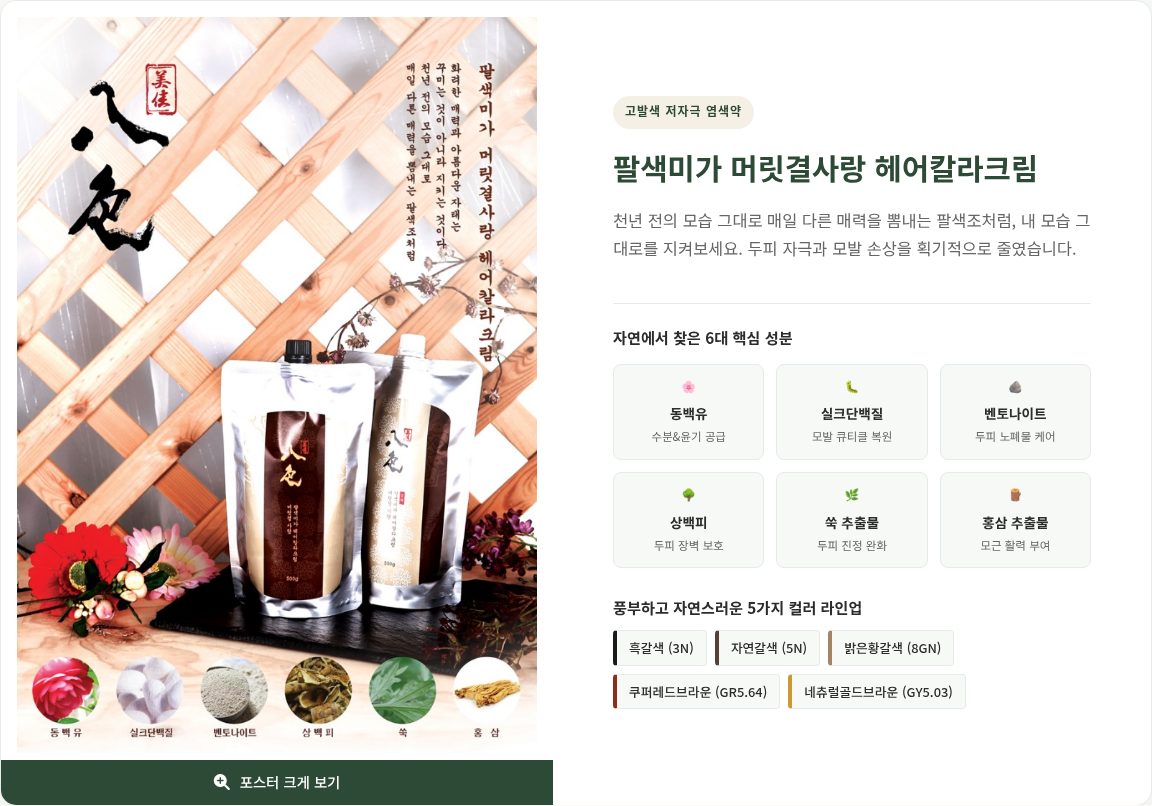
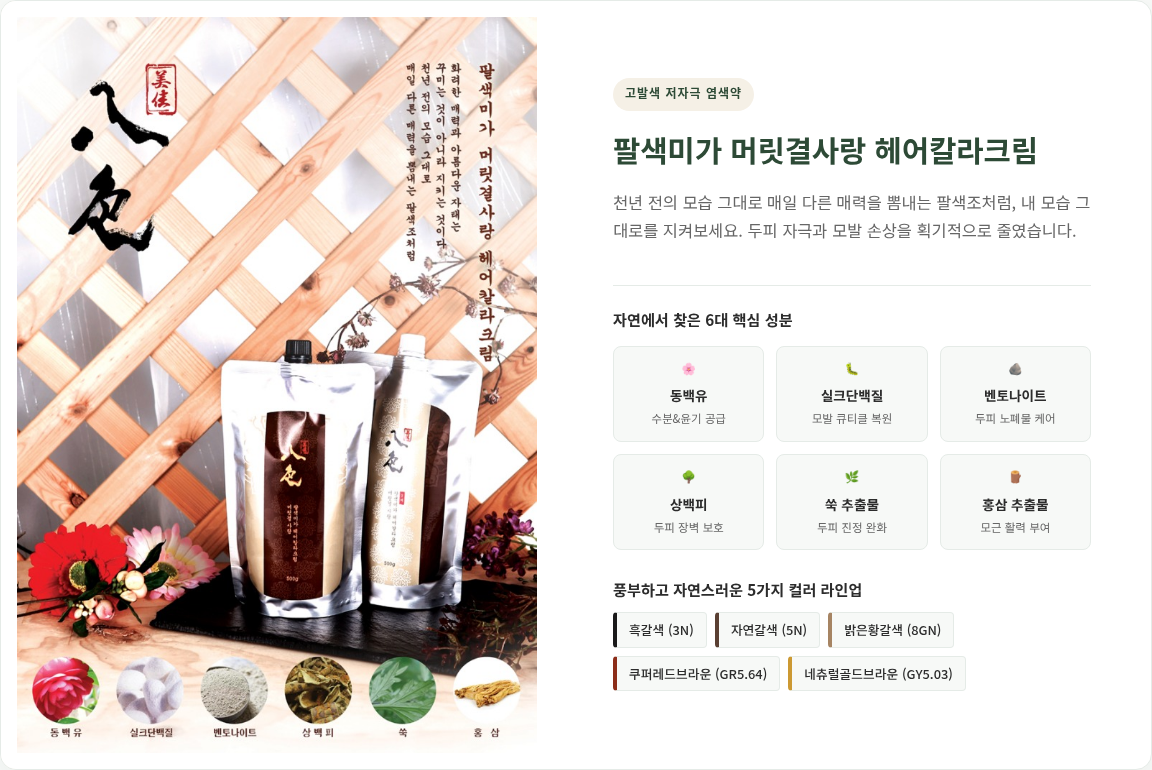
fix: remove poster zoom buttons and lightbox

diff --git a/index.html b/index.html
@@ -31,7 +31,7 @@
     <link rel="stylesheet" href="https://cdnjs.cloudflare.com/ajax/libs/font-awesome/6.4.0/css/all.min.css">
     
     <!-- Stylesheet -->
-    <link rel="stylesheet" href="styles.css?v=3.0">
+    <link rel="stylesheet" href="styles.css?v=3.1">
 </head>
 <body>
 
@@ -186,11 +186,10 @@
                     <!-- Product 1: PalSaekMiGa -->
                     <div class="product-item scroll-reveal">
                         <div class="product-display-box">
-                            <button class="poster-preview" type="button" data-motion-scene data-lightbox="assets/dye_poster.jpg" aria-label="팔색미가 헤어칼라크림 포스터 크게 보기" aria-haspopup="dialog">
+                            <div class="poster-preview" data-motion-scene>
                                 <img src="assets/dye_poster.jpg" alt="팔색미가 머릿결사랑 헤어칼라크림 포스터" width="724" height="1024" loading="lazy" decoding="async">
                                 <span class="product-reflection" data-motion aria-hidden="true"></span>
-                                <span class="zoom-overlay"><i class="fa-solid fa-magnifying-glass-plus" aria-hidden="true"></i> 포스터 크게 보기</span>
-                            </button>
+                            </div>
                         </div>
                         
                         <div class="product-info-box">
@@ -252,11 +251,10 @@
                     <!-- Product 2: Care Products -->
                     <div class="product-item reverse scroll-reveal">
                         <div class="product-display-box">
-                            <button class="poster-preview" type="button" data-motion-scene data-lightbox="assets/essence_poster.jpg" aria-label="프로페셔널 에센스 포스터 크게 보기" aria-haspopup="dialog">
+                            <div class="poster-preview" data-motion-scene>
                                 <img src="assets/essence_poster.jpg" alt="프로페셔널 에센스 설명 포스터" width="723" height="1024" loading="lazy" decoding="async">
                                 <span class="product-reflection" data-motion aria-hidden="true"></span>
-                                <span class="zoom-overlay"><i class="fa-solid fa-magnifying-glass-plus" aria-hidden="true"></i> 포스터 크게 보기</span>
-                            </button>
+                            </div>
                         </div>
                         
                         <div class="product-info-box">
@@ -625,12 +623,6 @@
         </div>
     </footer>
 
-    <!-- Lightbox Modal -->
-    <div class="lightbox-modal" id="lightbox" role="dialog" aria-modal="true" aria-label="제품 포스터 확대 보기">
-        <button class="lightbox-close" type="button" aria-label="확대 이미지 닫기">&times;</button>
-        <img class="lightbox-content" id="lightbox-img" alt="확대 이미지">
-    </div>
-
     <!-- Success Modal -->
     <div class="modal-overlay" id="success-modal">
         <div class="modal-content">
@@ -646,6 +638,6 @@
         <a href="tel:0323276788" aria-label="대표 번호로 전화 걸기"><i class="fa-solid fa-phone"></i></a>
     </div>
 
-    <script src="app.js?v=3.0"></script>
+    <script src="app.js?v=3.1"></script>
 </body>
 </html>

diff --git a/styles.css b/styles.css
@@ -727,11 +727,9 @@ h1, h2, h3, h4, h5, h6 {
     height: 100%;
     display: block;
     border: 0;
-    padding: 16px 16px 52px;
+    padding: 16px;
     overflow: hidden;
-    cursor: pointer;
     background-color: #ffffff;
-    transition: var(--transition-smooth);
 }
 
 .poster-preview img {
@@ -742,9 +740,9 @@ h1, h2, h3, h4, h5, h6 {
 
 .product-reflection {
     position: absolute;
-    top: 0;
-    bottom: 44px;
-    left: 0;
+    top: 16px;
+    bottom: 16px;
+    left: 16px;
     width: 55%;
     pointer-events: none;
     background: linear-gradient(90deg, transparent, rgba(255, 255, 255, 0.38) 48%, rgba(255, 243, 212, 0.12) 64%, transparent);
@@ -755,39 +753,6 @@ h1, h2, h3, h4, h5, h6 {
 @keyframes product-light {
     0%, 12% { transform: translateX(-160%) skewX(-18deg); }
     55%, 100% { transform: translateX(290%) skewX(-18deg); }
-}
-
-.zoom-overlay {
-    position: absolute;
-    z-index: 1;
-    bottom: 0;
-    left: 0;
-    width: 100%;
-    min-height: 44px;
-    padding: 10px;
-    background-color: var(--primary-color);
-    color: #ffffff;
-    display: flex;
-    align-items: center;
-    justify-content: center;
-    gap: 10px;
-    opacity: 1;
-    font-size: 0.9rem;
-    font-weight: 500;
-    transition: var(--transition-fast);
-}
-
-.zoom-overlay i {
-    font-size: 1rem;
-}
-
-.poster-preview:focus-visible {
-    outline-offset: -5px;
-}
-
-.poster-preview:hover .zoom-overlay,
-.poster-preview:focus-visible .zoom-overlay {
-    background-color: var(--primary-dark);
 }
 
 /* Product Info Box */
@@ -1576,64 +1541,6 @@ footer {
     background-color: var(--primary-dark);
 }
 
-/* Lightbox Modal */
-.lightbox-modal {
-    position: fixed;
-    top: 0;
-    left: 0;
-    width: 100%;
-    height: 100%;
-    background-color: rgba(0, 0, 0, 0.9);
-    z-index: 3000;
-    display: none;
-    align-items: center;
-    justify-content: center;
-    opacity: 0;
-    transition: opacity 0.3s ease;
-    padding: 20px;
-}
-
-.lightbox-modal.open {
-    display: flex;
-    opacity: 1;
-}
-
-.lightbox-content {
-    max-width: 90%;
-    max-height: 85vh;
-    border-radius: 6px;
-    box-shadow: 0 10px 30px rgba(0, 0, 0, 0.5);
-    transform: scale(0.95);
-    transition: transform 0.3s cubic-bezier(0.16, 1, 0.3, 1);
-    object-fit: contain;
-}
-
-.lightbox-modal.open .lightbox-content {
-    transform: scale(1);
-}
-
-.lightbox-close {
-    position: absolute;
-    top: 25px;
-    right: 35px;
-    color: #ffffff;
-    font-size: 40px;
-    font-weight: 300;
-    cursor: pointer;
-    transition: var(--transition-fast);
-    line-height: 1;
-    z-index: 3010;
-    width: 48px;
-    height: 48px;
-    background: transparent;
-    border: 0;
-}
-
-.lightbox-close:hover {
-    color: var(--accent-gold);
-    transform: scale(1.1);
-}
-
 /* Floating Quick Dial */
 .floating-quick-dial {
     position: fixed;
@@ -1684,8 +1591,7 @@ html.motion-ready [data-motion].is-in-view {
 html.motion-paused [data-motion],
 html.page-hidden [data-motion],
 html.overlay-open [data-motion],
-html.motion-ready .poster-preview:hover [data-motion],
-html.motion-ready .poster-preview:focus-within [data-motion] {
+html.motion-ready .poster-preview:hover [data-motion] {
     animation-play-state: paused !important;
 }
 

diff --git a/app.js b/app.js
@@ -44,7 +44,7 @@ document.addEventListener('DOMContentLoaded', () => {
     }
 
     const syncOverlayState = () => {
-        const hasOverlay = !!document.querySelector('.mobile-drawer.open, .lightbox-modal.open, .modal-overlay.open');
+        const hasOverlay = !!document.querySelector('.mobile-drawer.open, .modal-overlay.open');
         document.body.classList.toggle('no-scroll', hasOverlay);
         root.classList.toggle('overlay-open', hasOverlay);
     };
@@ -338,49 +338,15 @@ document.addEventListener('DOMContentLoaded', () => {
         }
     });
 
-    // 8. Lightbox Modal functions
-    const lightbox = document.getElementById('lightbox');
-    const lightboxImg = document.getElementById('lightbox-img');
-    const lightboxClose = lightbox.querySelector('.lightbox-close');
-    let lightboxTrigger = null;
-
-    window.openLightbox = (imageSrc, trigger = document.activeElement) => {
-        if (lightbox && lightboxImg) {
-            lightboxTrigger = trigger;
-            lightboxImg.src = imageSrc;
-            lightboxImg.alt = trigger?.querySelector('img')?.alt || '확대 이미지';
-            lightbox.classList.add('open');
-            syncOverlayState();
-            lightboxClose.focus();
-        }
-    };
-
-    window.closeLightbox = () => {
-        if (lightbox) {
-            lightbox.classList.remove('open');
-            syncOverlayState();
-            lightboxImg.removeAttribute('src');
-            lightboxTrigger?.focus({ preventScroll: true });
-        }
-    };
-
-    document.querySelectorAll('[data-lightbox]').forEach(button => {
-        button.addEventListener('click', () => window.openLightbox(button.dataset.lightbox, button));
-    });
-    lightboxClose.addEventListener('click', window.closeLightbox);
-
+    // 8. Mobile drawer keyboard navigation
     document.addEventListener('keydown', event => {
         if (event.key === 'Escape') {
-            if (lightbox.classList.contains('open')) window.closeLightbox();
             if (mobileDrawer.classList.contains('open')) {
                 setDrawerOpen(false);
                 mobileToggle.focus();
             }
         }
-        if (event.key === 'Tab' && lightbox.classList.contains('open')) {
-            event.preventDefault();
-            lightboxClose.focus();
-        } else if (event.key === 'Tab' && mobileDrawer.classList.contains('open')) {
+        if (event.key === 'Tab' && mobileDrawer.classList.contains('open')) {
             const lastLink = mobileDrawer.querySelector('.btn-drawer-cta');
             if (event.shiftKey && document.activeElement === mobileToggle) {
                 event.preventDefault();
@@ -391,14 +357,5 @@ document.addEventListener('DOMContentLoaded', () => {
             }
         }
     });
-
-    // Close lightbox on overlay click
-    if (lightbox) {
-        lightbox.addEventListener('click', (e) => {
-            if (e.target === lightbox) {
-                window.closeLightbox();
-            }
-        });
-    }
 
 });

diff --git a/docs/REVIEW.md b/docs/REVIEW.md
@@ -1,14 +1,19 @@
-# 머릿결사랑 빛과 그림자 모션 수정
+# 머릿결사랑 제품 포스터 버튼 제거
 
-재생·정지 버튼을 제거하고, 살롱 사진 위에서 햇살·창틀 그림자·나뭇잎 그림자가 서로 다른 속도로 흐르도록 바꿨습니다. 브랜드 문구와 상담 기능은 유지합니다.
+제품 포스터 두 장의 ‘포스터 크게 보기’ 버튼·돋보기·확대창을 제거했습니다. 포스터는 클릭 동작 없는 이미지로 표시합니다. 기존 살롱의 빛과 그림자 모션, 브랜드 문구와 상담 기능은 유지합니다.
 
 ## 기준점과 변경
 
-- 기준 커밋: [`5b3bec0cf17b72da47de83b0b796db1cc7354fa6`](https://github.com/ssunmo/hairlove-franchise/commit/5b3bec0cf17b72da47de83b0b796db1cc7354fa6)
-- 작업 브랜치: `codex/salon-light-motion`
+- 기준 커밋: [`0b72fc9d4d7508e18bee5a3148a5a4938876c0db`](https://github.com/ssunmo/hairlove-franchise/commit/0b72fc9d4d7508e18bee5a3148a5a4938876c0db)
+- 작업 브랜치: `codex/remove-poster-zoom`
+- 포스터 버튼을 일반 이미지 컨테이너로 바꾸고 하단 버튼용 여백을 정리했습니다. 확대창의 HTML·CSS·이벤트 처리도 제거했습니다.
+- CSS·JavaScript 버전을 `3.1`로 올려 기존 방문자의 캐시를 갱신합니다.
+
+## 유지되는 모션 동작
+
 - 메인과 제품 영역의 재생·정지 버튼, 관련 스타일 및 사용자 정지 설정 처리 코드를 제거했습니다. 이전 버전에서 저장된 정지 설정이 새 장면을 멈춘 채로 두지 않습니다.
 - 메인 사진의 이동, 따뜻한 빛의 흐름, 창틀 그림자, 나뭇잎 그림자를 독립된 CSS 레이어로 구성했습니다. 제목과 상담 버튼은 움직이지 않습니다.
-- 제품 포스터는 고정하고 표면 위로 빛이 지나가도록 바꿨습니다. 포스터를 읽거나 확대할 때는 호버·키보드 포커스에서 효과가 멈춥니다.
+- 제품 포스터는 고정하고 표면 위로 빛이 지나갑니다. 포스터를 읽기 쉽도록 호버 중에는 효과가 멈춥니다.
 - 화면 밖, 숨겨진 탭, 메뉴·모달 표시 중에는 장면의 모든 효과가 정지합니다. 움직이는 레이어 대신 고정된 장면 경계를 관찰합니다.
 - 기기의 `prefers-reduced-motion` 설정을 처음 로드할 때와 실행 중 변경할 때 반영합니다. 모션 감소 시 조명 효과를 숨기고 사진을 고정합니다.
 - 그림자의 부드러운 가장자리는 SVG 안에 포함하고, 매 프레임의 CSS 흐림·블렌드 합성을 제거해 렌더링 부하를 줄였습니다.
@@ -18,7 +23,7 @@
 
 Chromium에서 저장소 파일을 브라우저 응답으로 연결하여 검증했습니다. 문의 API 요청은 전부 모의 응답으로 처리했으며 실제 이메일 발송은 0건입니다.
 
-| 화면 너비 | 이미지·제목·버튼 경계 | 재생/정지 버튼 없음·장면 모션 | 메뉴·FAQ·확대 | 문의 모의 응답 |
+| 화면 너비 | 이미지·제목·버튼 경계 | 재생/정지 버튼 없음·장면 모션 | 메뉴·FAQ·일반 포스터 | 문의 모의 응답 |
 | --- | --- | --- | --- | --- |
 | 360px | 통과 | 통과 | 통과 | 통과 |
 | 390px | 통과 | 통과 | 통과 | 통과 |
@@ -28,13 +33,18 @@ Chromium에서 저장소 파일을 브라우저 응답으로 연결하여 검증
 
 - 네 개의 메인 레이어가 실제로 움직이는 동안 제목 위치가 고정되는지 확인했습니다.
 - 이전 정지 설정을 저장한 방문자도 새 모션을 정상적으로 보는지 검증했습니다.
-- 실제 스크롤에 따른 화면 밖 정지·재개, 제품 호버·키보드 정지, 기기 모션 감소의 첫 로드·실행 중 전환을 확인했습니다. 숨겨진 탭 처리는 합성 `visibilitychange` 이벤트로 검증했습니다.
-- 제품 글자는 움직이지 않으며, 장식 레이어가 클릭을 가로채지 않는지 확대 기능으로 확인했습니다.
+- 실제 스크롤에 따른 화면 밖 정지·재개, 제품 호버 정지, 기기 모션 감소의 첫 로드·실행 중 전환을 확인했습니다. 숨겨진 탭 처리는 합성 `visibilitychange` 이벤트로 검증했습니다.
+- 두 포스터의 이미지 로딩을 확인했습니다. 확대 버튼·돋보기·클릭 커서·키보드 포커스가 없으며 이미지를 눌러도 확대창이 열리거나 스크롤이 잠기지 않습니다.
 - 필수값·개인정보 동의·전화번호 자동 형식·모의 전송 성공·서버 오류·네트워크 오류를 확인했습니다.
 - JavaScript를 끈 경우에도 본문이 보이고 장면은 정지 상태를 유지합니다.
 - [자동 검증 기록](preview/verification.json), JavaScript 구문 검사, `git diff --check`를 통과했습니다. 화면 크기는 브라우저 에뮬레이션으로 검증했습니다.
 
 ## 확인 자료
+
+- [운영 사이트 제품 영역](https://franchise.hairlove.kr/?v=3.1#pb-products)
+- 버튼 제거 후 제품 화면: [PC 1440px](preview/product-1440.png) · [모바일 390px](preview/product-390.png)
+
+아래는 이전 모션 수정 때 기록한 자료입니다. MP4에 보이는 포스터 확대 버튼·확대창은 이번 수정에서 제거되었습니다.
 
 - [움직임 미리보기 GIF](preview/salon-light-preview.gif?raw=true)
 - [PC MP4](preview/desktop-preview.mp4?raw=true) · [모바일 MP4](preview/mobile-preview.mp4?raw=true)
